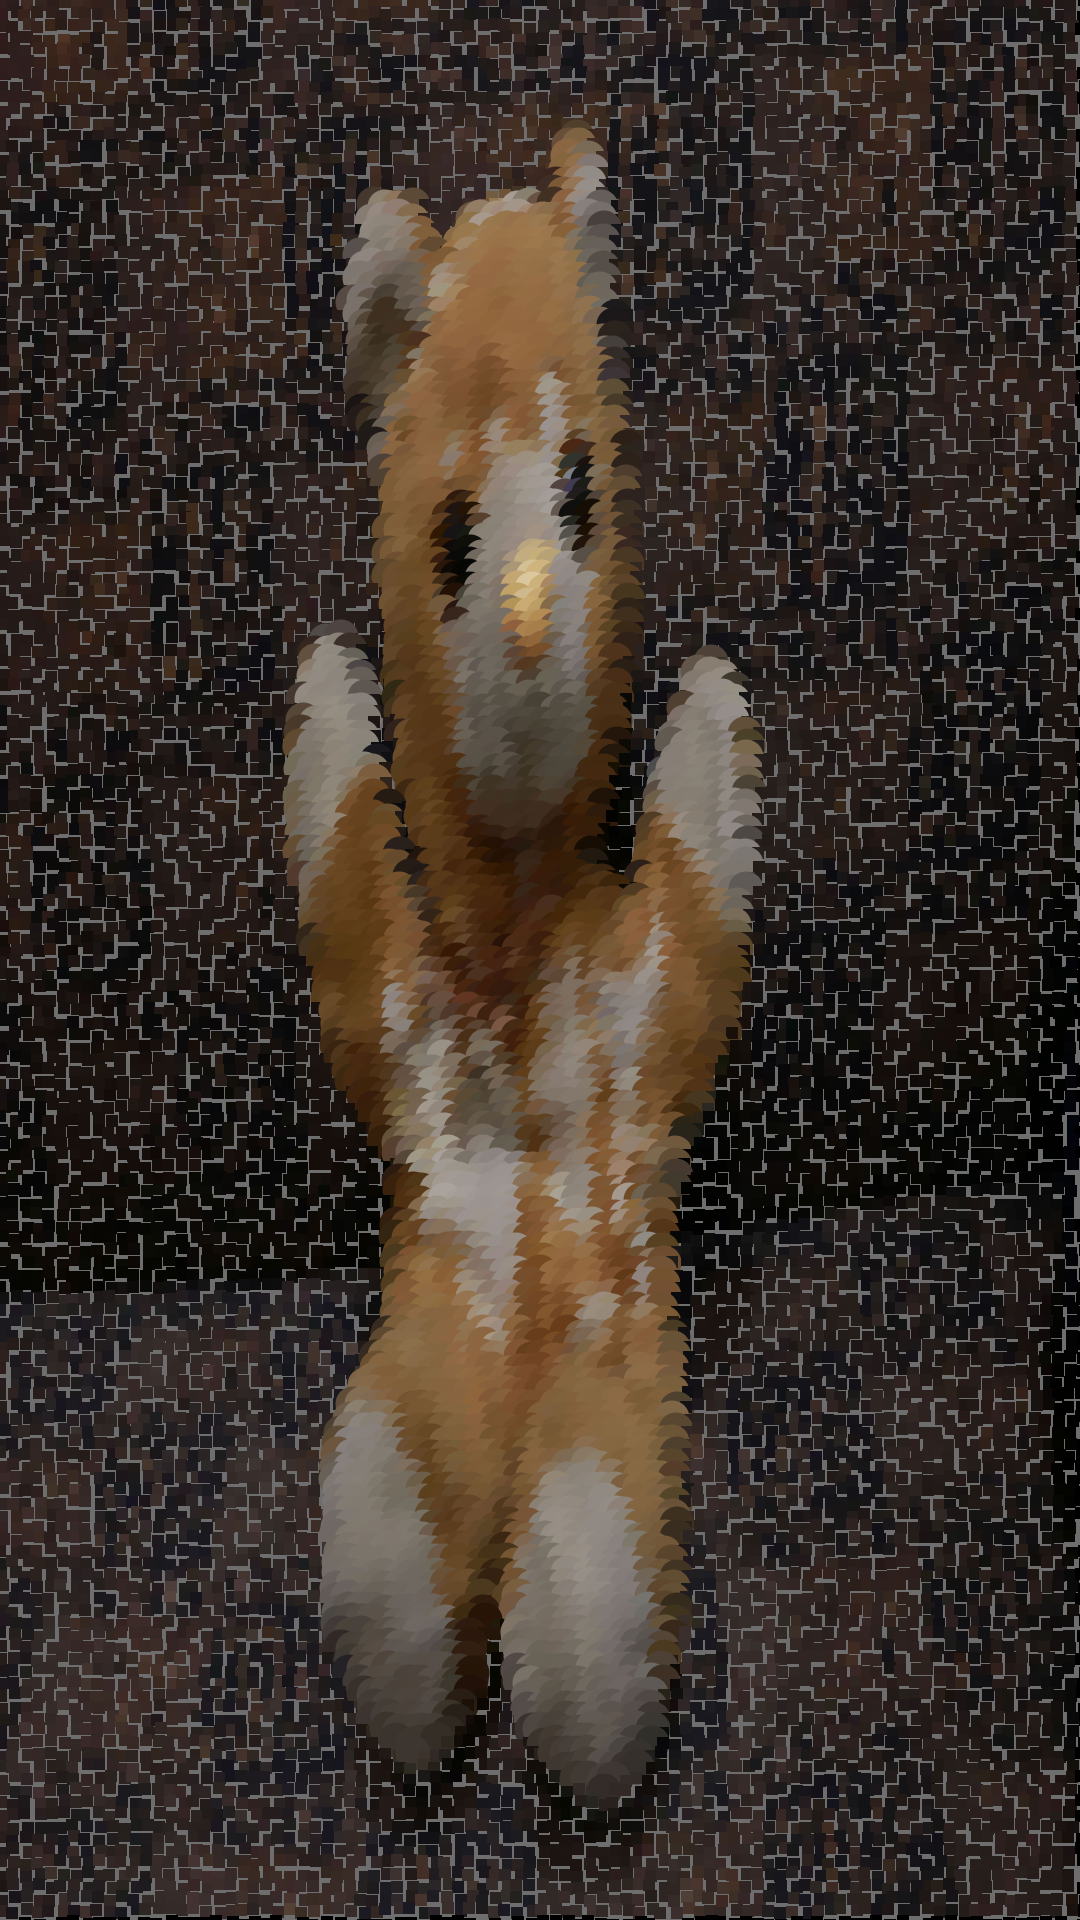
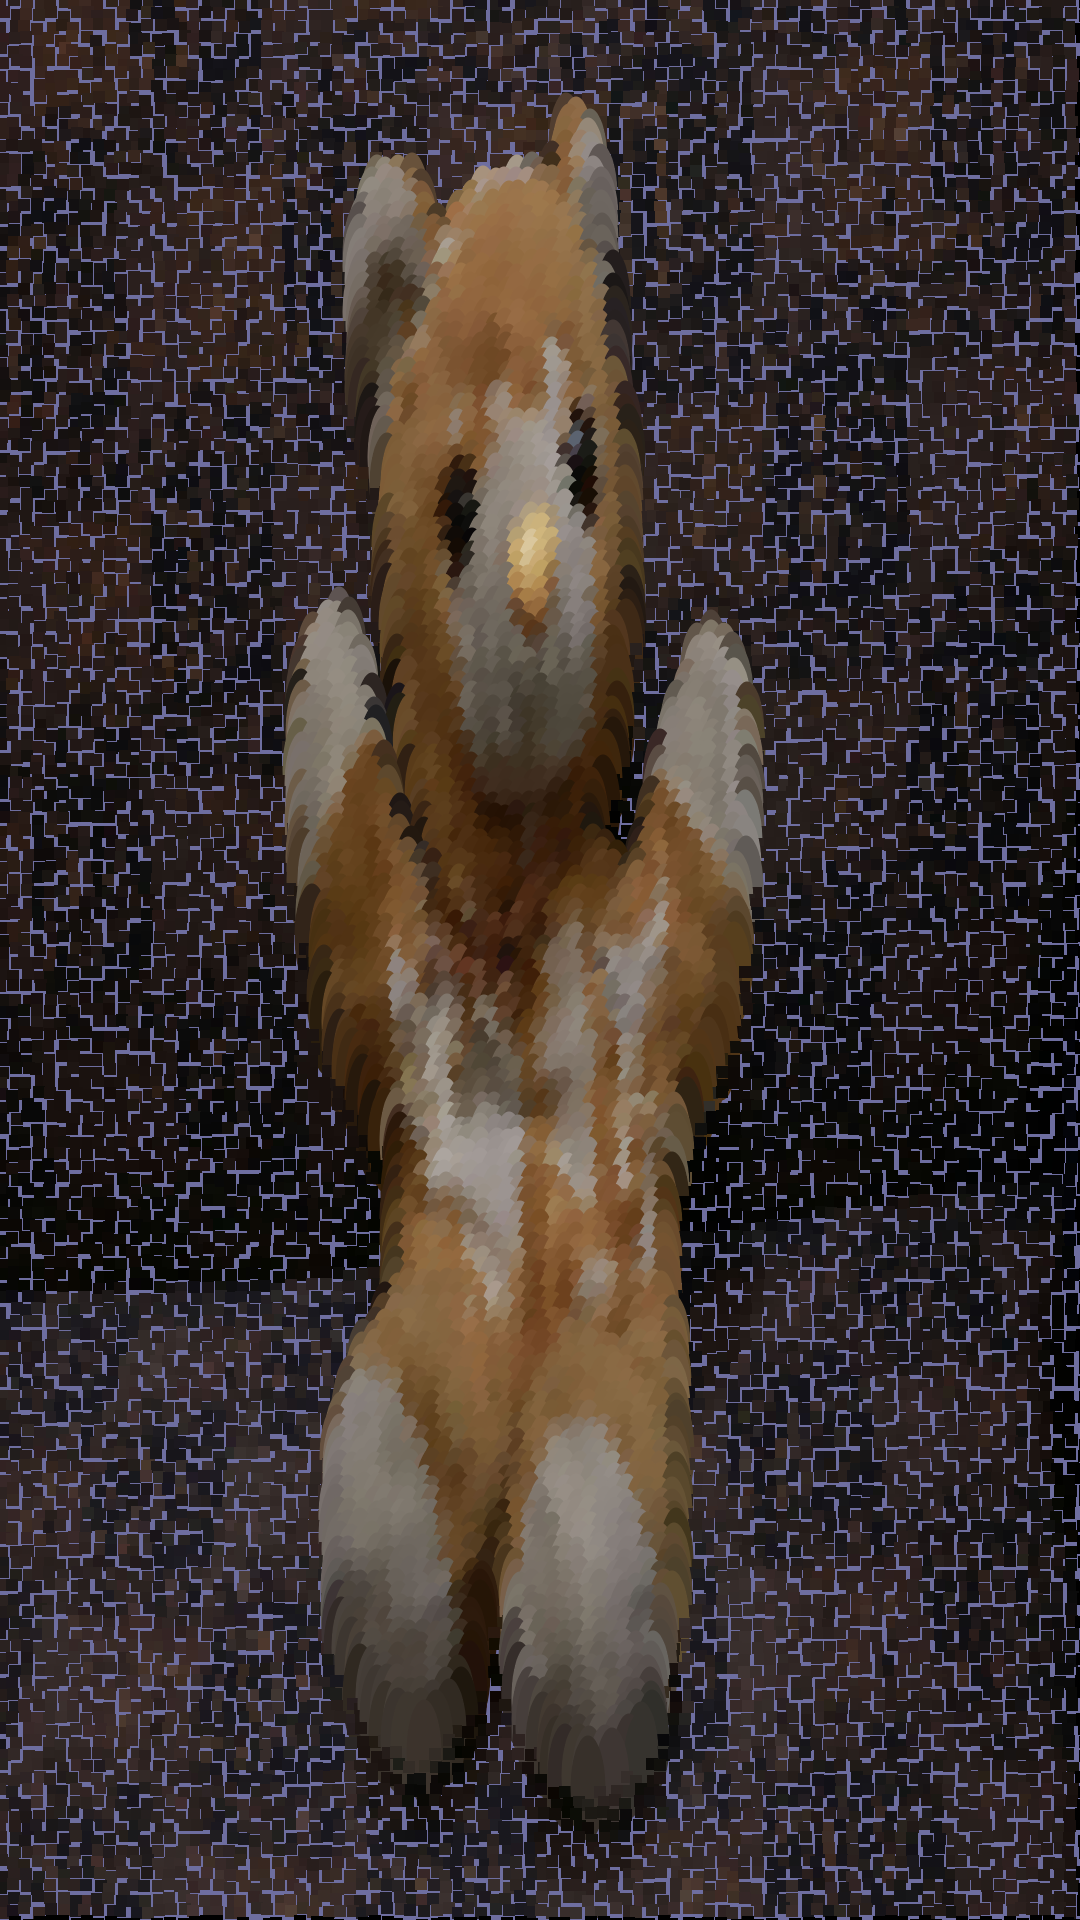
Experiment

Changed region(s): [[0.0, 0.0, 1.0, 1.0]]

diff --git a/sketch.js b/sketch.js
@@ -18,8 +18,8 @@ let maskImg=null;
 let renderCounter=0;
 
 function preload() {
-  sourceImg = loadImage("input_3.jpg");
-  maskImg = loadImage("mask_3.png");
+  sourceImg = loadImage("input_1.jpg");
+  maskImg = loadImage("mask_1.png");
 }
 
 function setup () {
